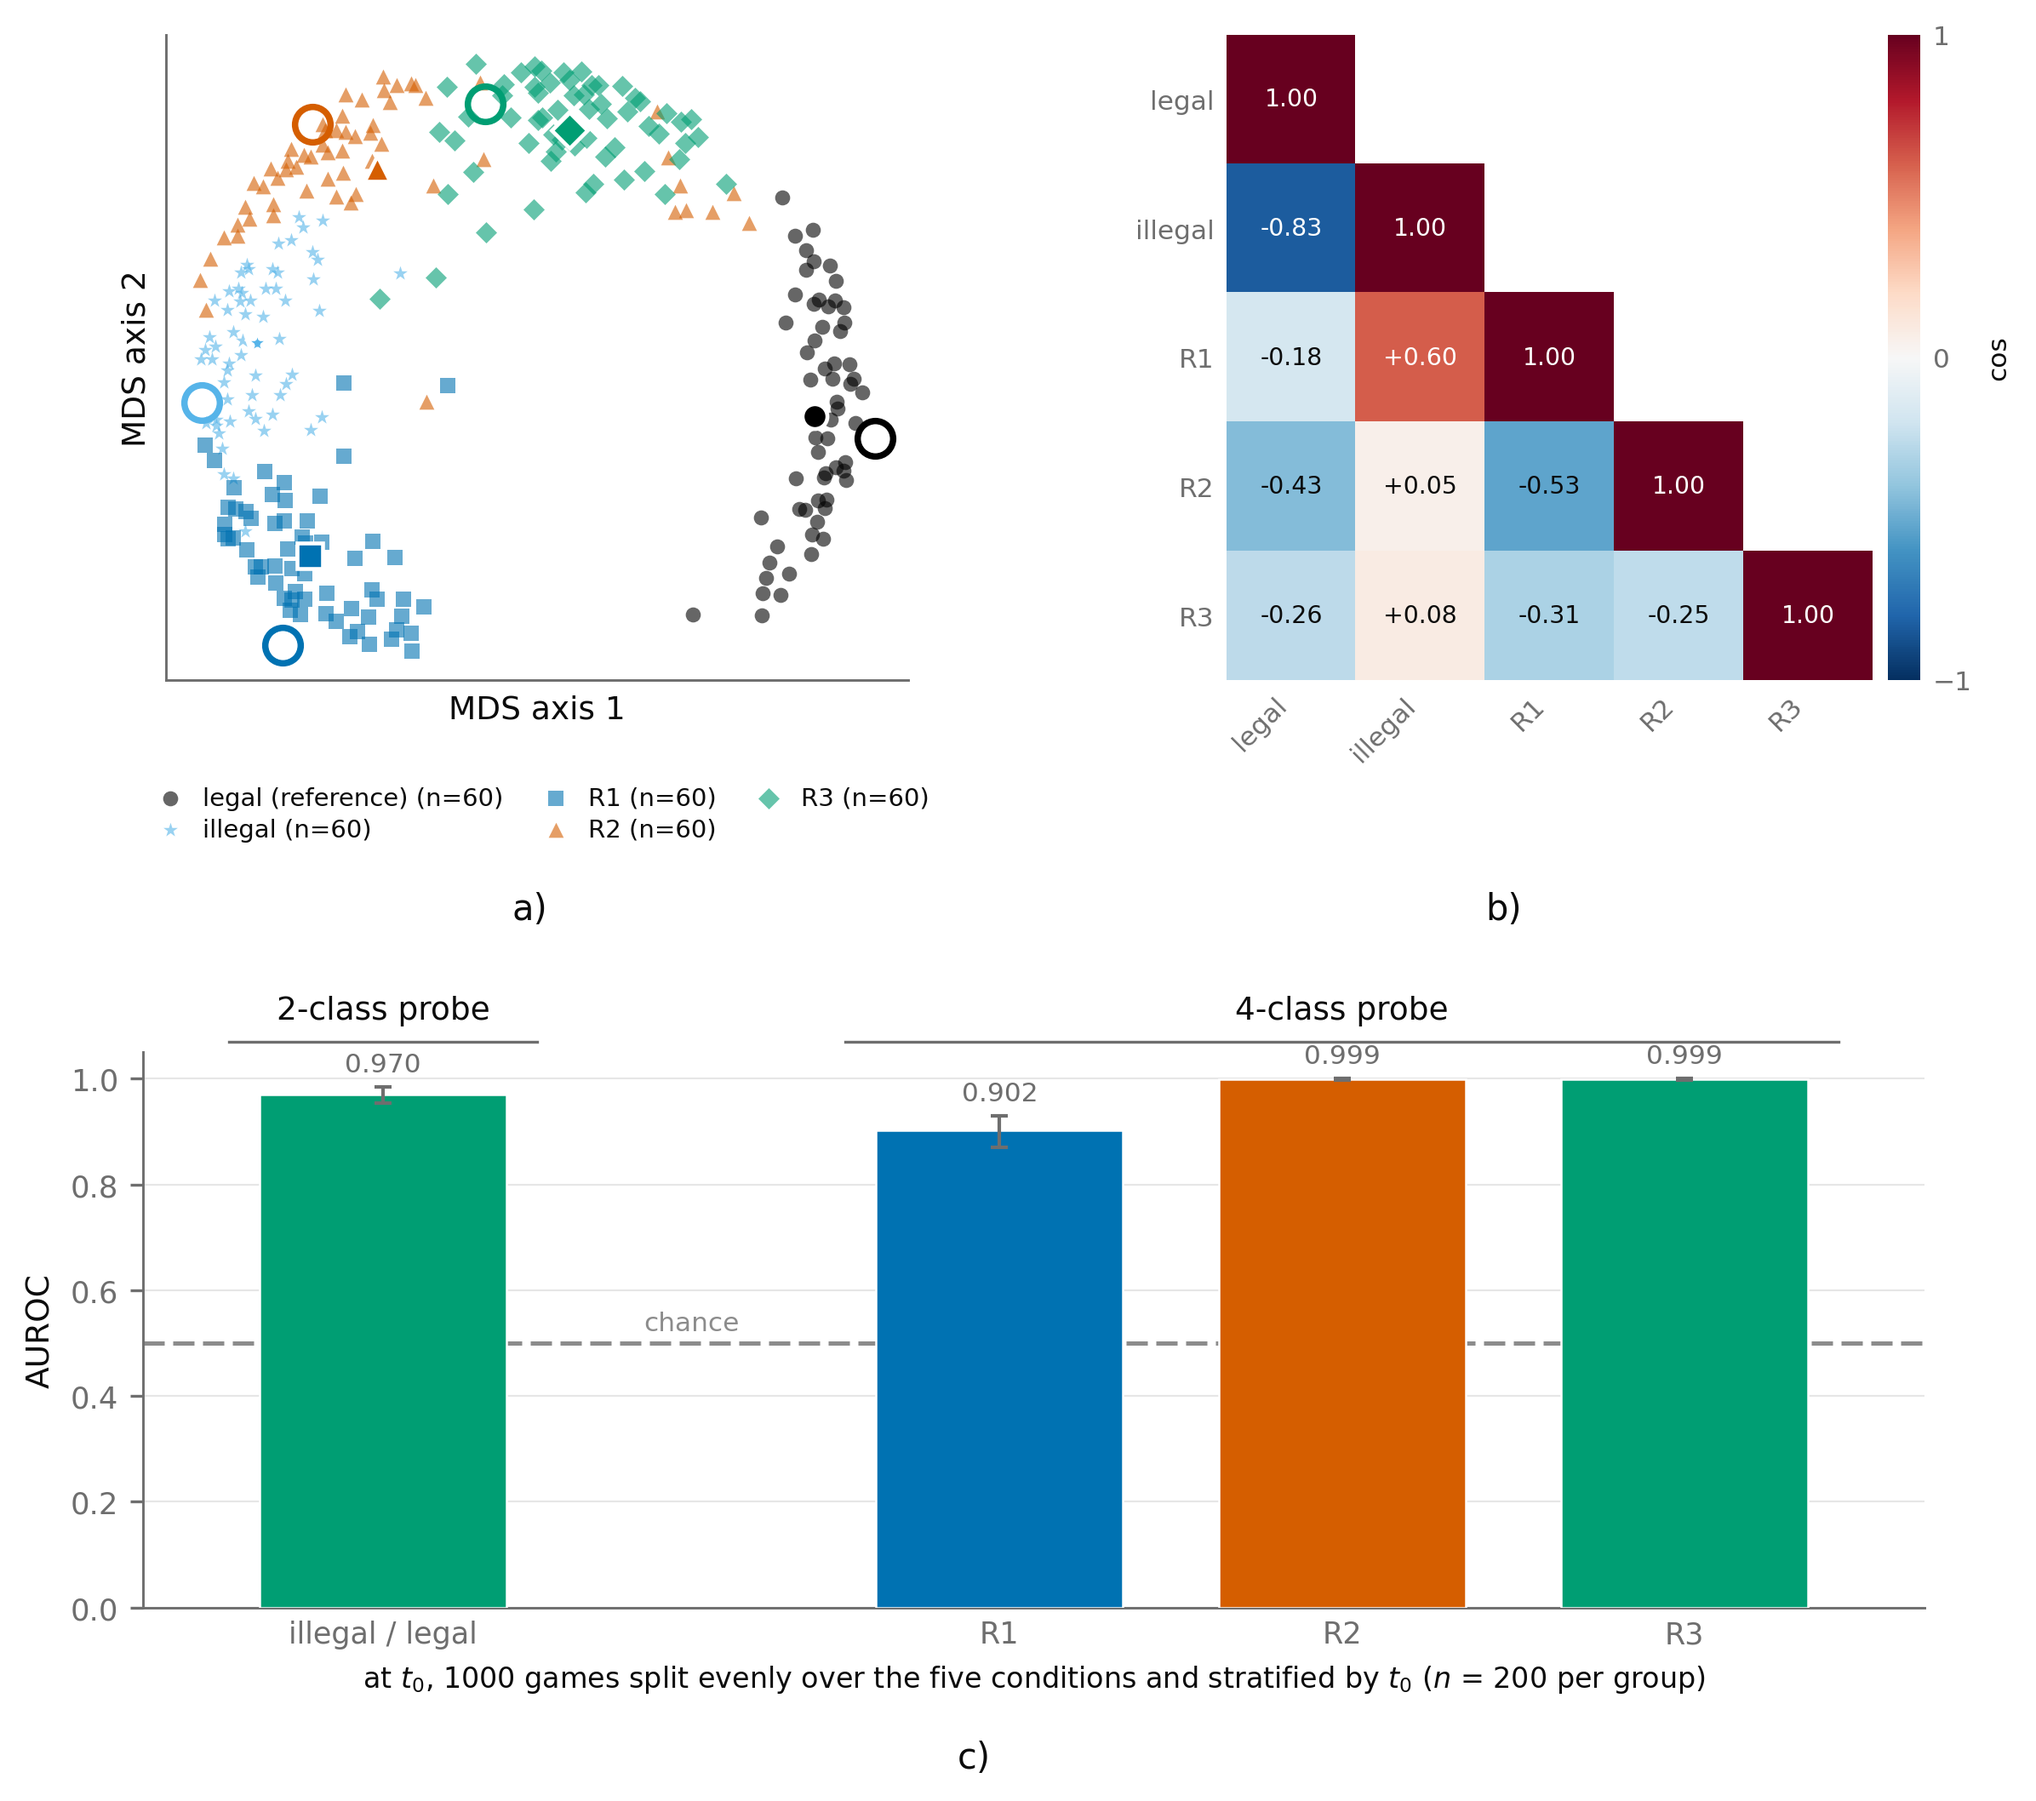
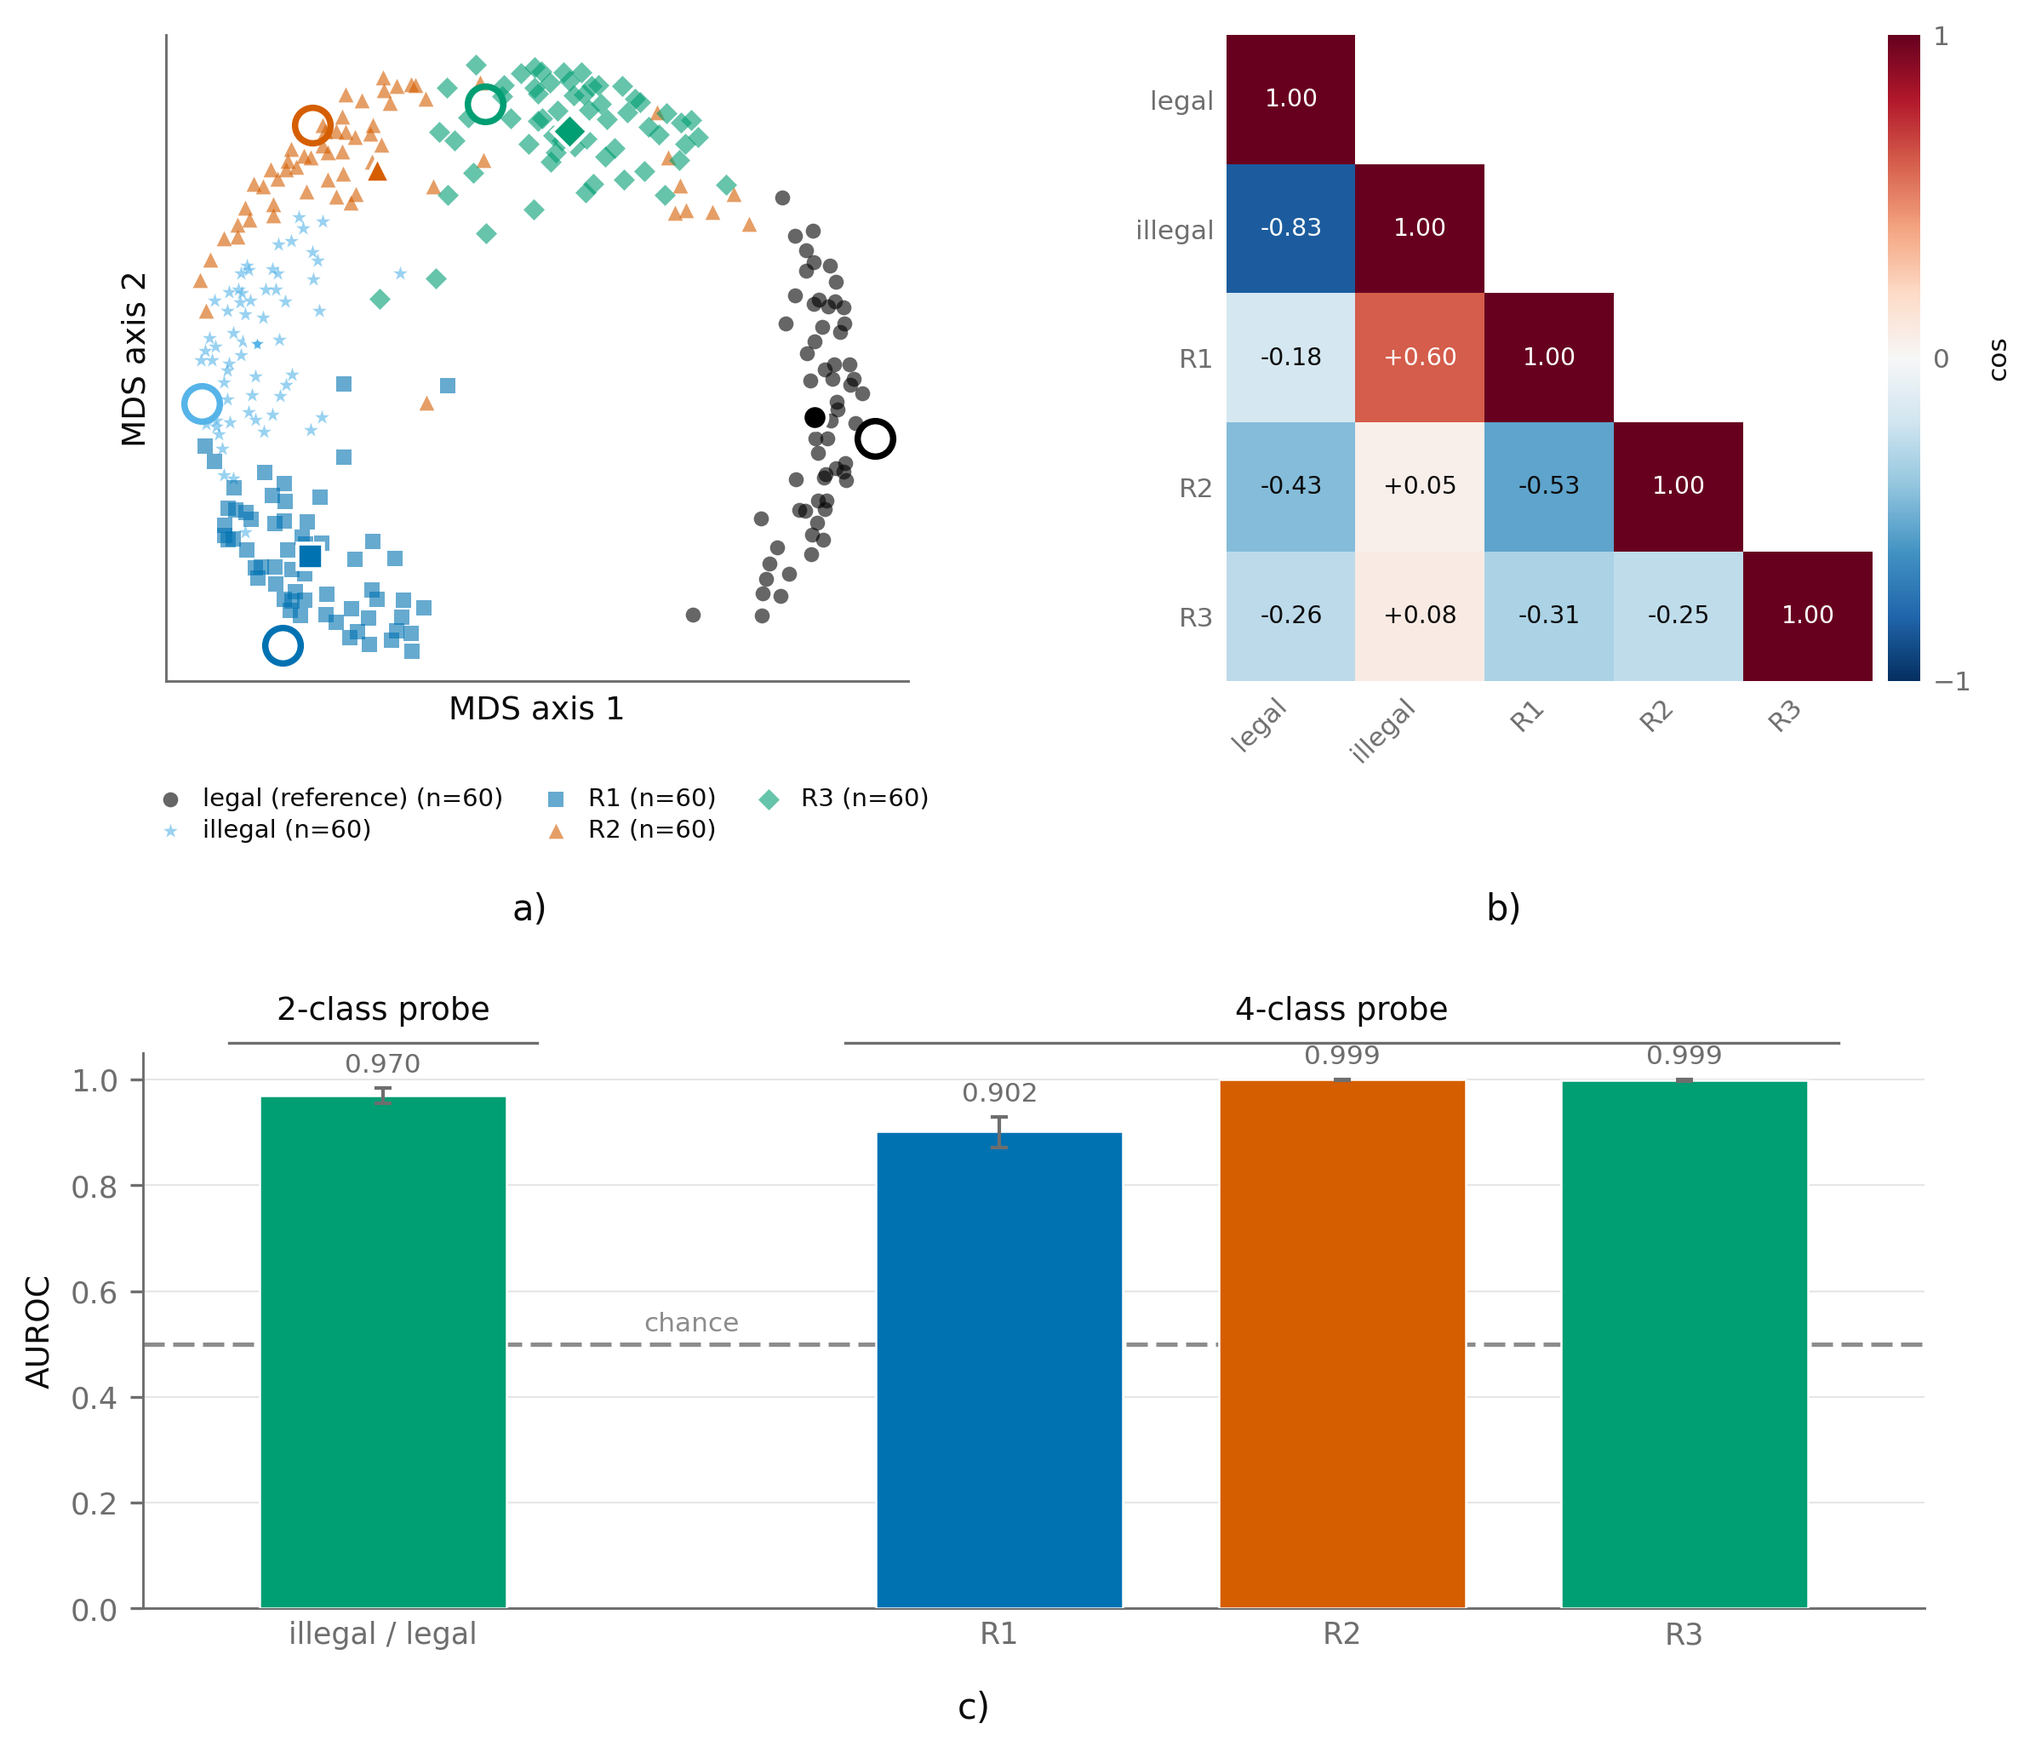
Drop the x label under panel (c)
The evaluation set it described is the caption's job, and it is already stated in
analysis/move_legality/README.md beside the numbers it describes.

diff --git a/figures/probe_directions_and_detection/make_figure.py b/figures/probe_directions_and_detection/make_figure.py
@@ -93,9 +93,9 @@ def detection_panel(ax, bars: pd.DataFrame) -> None:
     ax.set_xlim(x[0] - 0.7, x[-1] + 0.7)
     ax.set_ylim(0, 1.05)
     ax.set_ylabel("AUROC")
-    n = int(bars["n_games"].iloc[0])
-    ax.set_xlabel(f"at $t_0$, {n * 5} games split evenly over the five conditions and "
-                  f"stratified by $t_0$ ($n$ = {n} per group)", fontsize=8)
+    # No x label: the evaluation set (1000 games split evenly over the five conditions and
+    # stratified by t0, 200 per group) is the caption's job, and it is stated in
+    # analysis/move_legality/README.md next to the numbers it describes.
     ax.grid(axis="x", visible=False)
     ax.tick_params(axis="x", length=0)
 
